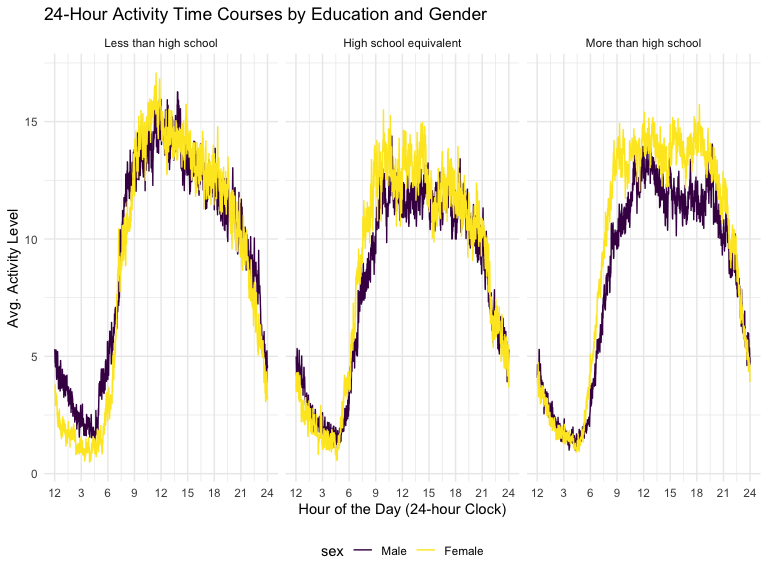
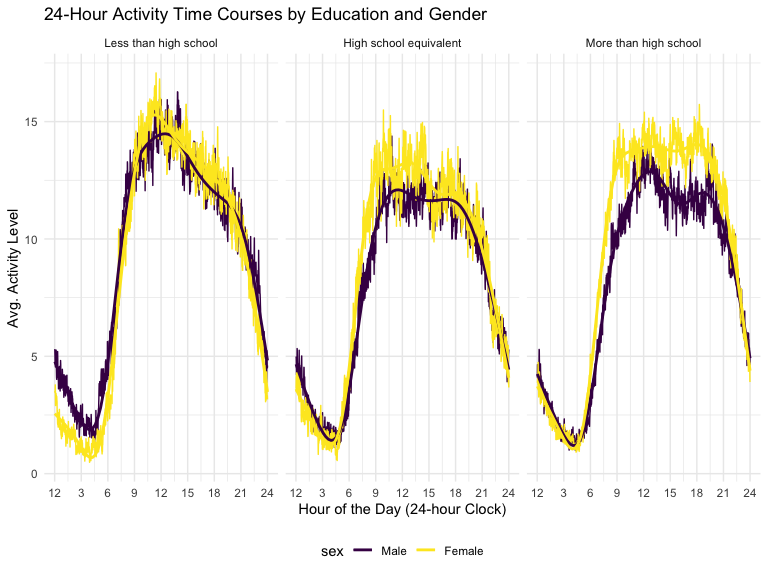
q2 final

diff --git a/p8105_hw3_dw3093.md b/p8105_hw3_dw3093.md
@@ -66,15 +66,21 @@ snowfall, representing days without snow.
 
 ``` r
 ny_noaa |>
-  filter(month==1|month==7)|>
   group_by(id,year,month)|>
+  filter(month %in% c(1, 7)) |>
+  mutate(
+    month = factor(month(date), 
+                   levels = c(1, 7), 
+                   labels = c("January", "July"))
+    ) |>
   summarise(avg_tmax = mean(tmax, na.rm = TRUE))|>
-  ggplot(aes(x = year, y=avg_tmax))+
-  geom_point(alpha = .1)+geom_line()+
+  ggplot(aes(x = year, y = avg_tmax))+
+  geom_point(alpha = .1)+
+  geom_line()+
   facet_grid(.~month)+
-  labs( title = "Avg. Max Temperature in Jan and Jul across Years by Station",
+  labs( title = "Avg. Max Temperature in January and July across Years by Station",
     x = "Year",
-    y = "avg. max temperature (°C)")+ 
+    y = "Avg. Max Temperature (°C)")+ 
   theme_minimal() + 
   theme(legend.position = "bottom")
 ```
@@ -93,30 +99,29 @@ warm across the years, but still contains few outliers, like the lowest
 temperature is about 14°C in around 1988.
 
 ``` r
-ggp_tmax_tmin=
+hexbin_plot=
   ny_noaa|>
-  ggplot(aes(x=tmin, y=tmax))+
+  ggplot(aes(x = tmin, y = tmax))+
   geom_hex()+
   labs(
     x = "minimum temperature(°C)",
     y = "maximum temperature(°C)",
-    title = "Relationship Between tmax and tmin"
     )+
     theme_minimal()
 
-ggp_snow=
-ny_noaa|>
+density_plot = 
+  ny_noaa|>
   filter(snow>0, snow<100)|>
-  ggplot(aes(x = snow, fill = factor(year))) + 
-  geom_density(alpha=.3)+
-  labs(title = "Density of Snowfall by Year", x = "snow depth (mm)", y = "year") +
-  theme_minimal()
+  ggplot(aes(x = snow, y = as.factor(year))) + 
+  geom_density_ridges()
 
-combined_plot =
-  ggp_tmax_tmin + ggp_snow
+combine_plot =
+  hexbin_plot + density_plot
 
-print(combined_plot)
+print(combine_plot)
 ```
+
+    ## Picking joint bandwidth of 3.76
 
 <img src="p8105_hw3_dw3093_files/figure-gfm/unnamed-chunk-5-1.png" width="90%" />
 The hexbin plot shows a strong positive relationship between tmax and
@@ -151,21 +156,22 @@ merged_df |>
   group_by(sex, education) |>
   summarise(count = n(), .groups = "drop") |>
   pivot_wider(
-    names_from = education,
+    names_from = sex,
     values_from = count
     ) |>
   knitr::kable()
 ```
 
-| sex    | Less than high school | High school equivalent | More than high school |
-|:-------|----------------------:|-----------------------:|----------------------:|
-| Male   |                    27 |                     35 |                    56 |
-| Female |                    28 |                     23 |                    59 |
+| education              | Male | Female |
+|:-----------------------|-----:|-------:|
+| Less than high school  |   27 |     28 |
+| High school equivalent |   35 |     23 |
+| More than high school  |   56 |     59 |
 
-The table shows that 27 males and 28 females have less than a high
-school education, 35 males and 23 females have a high school equivalent
-education, and 56 males and 59 females have more than a high school
-education.
+The reader-friendly table shows that 27 males and 28 females have less
+than a high school education, 35 males and 23 females have a high school
+equivalent education, and 56 males and 59 females have more than a high
+school education.
 
 For the “less than a high school education” and “more than a high school
 education” categories, the number between males and females is
@@ -206,8 +212,8 @@ merged_df |>
   ) |>
   select(seqn, sex, age, bmi, education, total_activity) |> 
   ggplot(aes(x = age, y = total_activity, color = sex)) + 
-  geom_point(alpha=.5) + 
-  geom_smooth(method = "loess", se = FALSE) + 
+  geom_point(alpha = .5) + 
+  geom_smooth(se = FALSE) + 
   facet_wrap(~education) + 
   labs(
     title = "Total Activity vs. Age by Gender and Education Level", 
@@ -220,7 +226,7 @@ merged_df |>
   )
 ```
 
-    ## `geom_smooth()` using formula = 'y ~ x'
+    ## `geom_smooth()` using method = 'loess' and formula = 'y ~ x'
 
 <img src="p8105_hw3_dw3093_files/figure-gfm/unnamed-chunk-11-1.png" width="90%" />
 
@@ -258,6 +264,7 @@ hourly_act <- merged_df |>
 
 ggplot(hourly_act, aes(x = hour, y = activity_level, color = sex)) +
   geom_line(stat = "summary", fun = "mean") +
+  geom_smooth(se = FALSE) +
   facet_wrap(~education) +
   scale_x_continuous(breaks = seq(0, 24, by = 3), 
                      labels = c("12", "3", "6", "9", "12", "15", "18", "21", "24")) +
@@ -269,6 +276,8 @@ ggplot(hourly_act, aes(x = hour, y = activity_level, color = sex)) +
   theme_minimal() +
   theme(legend.position = "bottom")
 ```
+
+    ## `geom_smooth()` using method = 'gam' and formula = 'y ~ s(x, bs = "cs")'
 
 <img src="p8105_hw3_dw3093_files/figure-gfm/unnamed-chunk-12-1.png" width="90%" />
 The graph shows 24-hour activity patterns for men and women across
